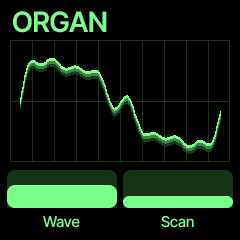
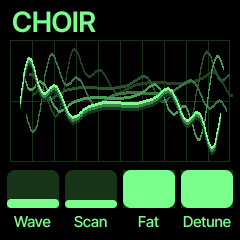
Add FAT and DETUNE unison to the WAVE page
K3 FAT adds 0..4 extra copies of each note, K4 DETUNE spreads them
(P_E4 and P_DETUNE). Copies take free voices from the shared 8-voice
pool, so a full chord at FAT 4 thins out; MONO and LEGATO use the same
count, UNISON still uses all eight. FAT 0 is untouched: every existing
golden and CPU budget is unchanged.

The WAVE picture draws one dimmer, smaller layer per copy, stacked up
and to the right behind the glowing front trace, each shifted in phase
by DETUNE on alternating sides. SPACE WHALE gets FAT 2.

Tests: golden and CPU entries for FAT 4, a voice/detune check, new
emulator references and docs/screens/wave.png.

Prompt: FAT (K3, number of unison copies) and DETUNE (K4) on the WAVE page, visualised as an angled stack of fainter layers that twist with detune (issue #15)

diff --git a/firmware/src/ui.c b/firmware/src/ui.c
@@ -1,6 +1,6 @@
 /* SPDX-License-Identifier: GPL-3.0-only */
 /* The kids' UI: four pages, one function button each (its LED is lit while the page shows):
- *   HOME WAVE (wave, scan) - EDIT FILTER (type, cutoff, reso) - ENV ADSR - FX SPACE (amount, size)
+ *   HOME WAVE (wave, scan, fat, detune) - EDIT FILTER (type, cutoff, reso) - ENV ADSR - FX SPACE (amount, size)
  * K1..K4 turn the bars at the bottom. OCT-/OCT+ shift the keys (both together: back to the middle).
  * An 80s CRT on every page: black, a faint graticule, glowing phosphor lines, one phosphor colour per page. No framebuffer: the screen is drawn in two 240 x 120
  * strips (cv_oy shifts screen coordinates into the strip) and only when something it shows has changed. */
@@ -14,7 +14,8 @@
 
 typedef struct { const char *name; int16_t *v; uint8_t max, step; } kn_t;
 static const struct { uint8_t btn; const char *title; uint16_t bg; kn_t k[4]; } PG[4] = {
-    {B_HOME, 0, RGB(120, 255, 140), {{"Wave", &trk[0].p[P_E0], 7, 1}, {"Scan", &trk[0].p[P_E1], 127, 4}}},
+    {B_HOME, 0, RGB(120, 255, 140), {{"Wave", &trk[0].p[P_E0], 7, 1}, {"Scan", &trk[0].p[P_E1], 127, 4},
+                                          {"Fat", &trk[0].p[P_E4], 4, 1}, {"Detune", &trk[0].p[P_DETUNE], 127, 4}}},
     {B_EDIT, "FILTER", RGB(255, 176, 0), {{0, &trk[0].p[P_FTYPE], 4, 1}, {"Cutoff", &trk[0].p[P_E2], 127, 4},
                                           {"Reso", &trk[0].p[P_E3], 127, 4}}},
     {B_ENV, "ENV", RGB(60, 230, 255), {{"Attack", &trk[0].p[P_ATK], 127, 4}, {"Decay", &trk[0].p[P_DEC], 127, 4},
@@ -52,7 +53,7 @@ static void disc(int32_t cx, int32_t cy, int32_t r, int32_t t, uint16_t c)
 }
 
 /* ------------------------------------------------------- pictures --- */
-static int16_t pt[200][2];                  /* a glowing line's points (WAVE's are filled once for both strips) */
+static int16_t pt[200][2];                  /* a glowing line's points (WAVE's are filled per layer) */
 
 /* a phosphor line through n points: a wide dim halo, a narrower one, then the bright core (pass by pass, so cores stay on top) */
 static void glow_pts(int32_t n, uint16_t c)
@@ -84,8 +85,26 @@ static void graticule(int32_t x, int32_t y, int32_t w, int32_t h, uint16_t c)
         cv_rect(x + i * w / 10, y, 1, h, g);
 }
 
+/* layer c of the FAT stack (0 = front): one step further back = up, right, smaller, phase-shifted by DETUNE (sides alternate) */
+static void wave_layer(int32_t c)
+{
+    int32_t i, amp = 46 * (100 - 6 * c) / 100, sh = (c + 1) / 2 * trk[0].p[P_DETUNE] / 6 * (c & 1 ? 1 : -1);
+    for (i = 0; i < 128; i++) {
+        pt[i][0] = (int16_t)(PX + 10 + i * 200 / 127 + 3 * c);
+        pt[i][1] = (int16_t)(PY + PH / 2 - 5 * c - ((wave_peek(trk[0].p[P_E0] & 7, trk[0].p[P_E1], i * 2 + sh) * amp) >> 15));
+    }
+}
+
 static void pic_wave(void)
 {
+    static const uint8_t M[5] = {100, 62, 46, 34, 26};
+    int32_t c, i;
+    for (c = trk[0].p[P_E4]; c > 0; c--) {      /* back to front, no halo */
+        wave_layer(c);
+        for (i = 0; i < 127; i++)
+            cv_line_t(pt[i][0], pt[i][1], pt[i + 1][0], pt[i + 1][1], ux_mix(0, PG[0].bg, M[c]), 3);
+    }
+    wave_layer(0);
     glow_pts(128, PG[0].bg);
 }
 
@@ -182,10 +201,6 @@ static void ui_draw(void)
     if (ux.mono) {                             /* the GREY palette mixes to grey: these pages are in colour */
         ux.mono = 0;
         ux.gen++;
-    }
-    for (i = 0; !ui_page && i < 128; i++) {   /* the scanned frame, once for both strips */
-        pt[i][0] = (int16_t)(PX + 10 + i * 200 / 127);
-        pt[i][1] = (int16_t)(PY + PH / 2 - ((wave_peek(trk[0].p[P_E0] & 7, trk[0].p[P_E1], i * 2) * 46) >> 15));
     }
     for (y0 = 0; y0 < 240u; y0 += 120u) {
         cv_begin(240, 120, 0);

diff --git a/tests/regress.c b/tests/regress.c
@@ -191,7 +191,8 @@ static void job_mode(const job_t *j)            /* arg: the voice mode, glide on
     track_t *t = &trk[0];
     host_tracks_init();
     host_sound(t, j->pi);
-    t->p[P_VOICE] = j->arg;
+    t->p[P_VOICE] = j->arg & 3u;
+    t->p[P_E4] = j->arg >> 2;                       /* FAT, for the POLY entry */
     t->p[P_GLIDE] = j->arg == V_MONO || j->arg == V_LEGATO ? 30 : 0;
     t->p[P_DETUNE] = 40;
     phrase(t, 60);
@@ -282,7 +283,9 @@ static void job_cpu(const job_t *j)
     host_sound(&trk[0], j->pi);
     trk[0].p[P_VOICE] = V_POLY;
     trk[0].p[P_SUS] = 127;
-    trk[0].p[P_FTYPE] = j->arg;
+    trk[0].p[P_FTYPE] = j->arg & 7u;
+    trk[0].p[P_E4] = j->arg >> 3;                   /* FAT */
+    trk[0].p[P_DETUNE] = 60;
     for (i = 0; i < j->cpu_notes; i++)
         trk_note_on(&trk[0], NOTES[i], 100);
     for (k = 0; k < nb / 2u + nb; k++) {
@@ -612,6 +615,36 @@ static int chk_reverb(char *msg, uint32_t n)
     return early > LIM_TAIL && R.tail_peak <= LIM_TAIL && !R.over;
 }
 
+static uint32_t mode_release_gates(void);
+/* FAT n: n extra copies per note, spread by DETUNE (none at DETUNE 0); FAT 0 is one voice */
+static int chk_fat(char *msg, uint32_t n)
+{
+    track_t *t = &trk[0];
+    uint32_t f, bad = 0, i, spread;
+    for (f = 0; f <= 4u; f++) {
+        for (spread = 0; spread < 2u; spread++) {
+            int32_t lo = 0, hi = 0;
+            host_tracks_init();
+            t->p[P_E4] = (int16_t)f;
+            t->p[P_DETUNE] = spread ? 60 : 0;
+            trk_note_on(t, 60, 100);
+            bad += voices_busy() != 1u + f;
+            for (i = 0; i < NVOICE; i++)
+                if (t->v[i].active) {
+                    lo = t->v[i].fine < lo ? t->v[i].fine : lo;
+                    hi = t->v[i].fine > hi ? t->v[i].fine : hi;
+                }
+            bad += (f > 1u && spread) != (lo < 0 && hi > 0);   /* copies on both sides of the lead, only with DETUNE */
+            bad += !spread && (lo || hi);
+            trk_note_off(t, 60);
+            bad += mode_release_gates() != 0;
+            run_to(fpos + 2u * FS);                   /* let the tails die: the next case counts from 0 */
+        }
+    }
+    snprintf(msg, n, "FAT 0..4: 1 + FAT voices per note, spread both ways by DETUNE, all released (%u wrong)", bad);
+    return !bad;
+}
+
 /* every factory preset loads, plays (not silent) and renders differently from all the others */
 static int chk_presets(char *msg, uint32_t n)
 {
@@ -921,6 +954,7 @@ int main(int argc, char **argv)
             j->pi = REV_S[i];
             j->arg = (uint8_t)k0;
         }
+    add(J_MODE, "mode/ROBOT_LEAD/FAT4")->arg = 4u << 2;      /* POLY, FAT 4 */
     add(J_KEYS, "keys/octave");
     add(J_MIDI, "midi/notes_bend_sustain");
     g1 = nj;
@@ -940,6 +974,7 @@ int main(int argc, char **argv)
     add(J_CHECK, "filter: every TYPE stable at max RES")->check = chk_filters;
     add(J_CHECK, "filter: drawn curve = real response")->check = chk_curves;
     add(J_CHECK, "reverb: the tail decays")->check = chk_reverb;
+    add(J_CHECK, "wave: FAT copies and DETUNE")->check = chk_fat;
     add(J_CHECK, "presets: load, sound, all different")->check = chk_presets;
     run_jobs(J, nj, jobs_at_once);
 
@@ -959,6 +994,12 @@ int main(int argc, char **argv)
         snprintf(name, sizeof name, "cpu/filter/%s", FN[i]);
         j = add(J_CPU, name);
         j->arg = (uint8_t)i;
+        j->cpu_notes = 8;
+        j->own = 1;
+    }
+    {
+        job_t *j = add(J_CPU, "cpu/fat4");              /* FAT 4 fills the same 8-voice pool: no dearer than 8 notes */
+        j->arg = 4u << 3;
         j->cpu_notes = 8;
         j->own = 1;
     }

diff --git a/firmware/src/voice.c b/firmware/src/voice.c
@@ -21,6 +21,14 @@ static uint32_t trk_nvoice(const track_t *t)
 
 static uint32_t trk_vmode(const track_t *t) { return (uint32_t)t->p[P_VOICE]; }
 
+/* voices per note: UNISON uses all, else 1 + FAT (P_E4, 0..4). shortcut: the copies come out of the shared
+ * 8-voice budget (only when there is room, else the oldest released voices go), so a full chord on FAT 4 thins out */
+static uint32_t trk_copies(const track_t *t)
+{
+    uint32_t f = (uint32_t)t->p[P_E4];
+    return trk_vmode(t) == V_UNISON ? trk_nvoice(t) : 1u + (f > 4u ? 4u : f);
+}
+
 /* ------------------------------------------------- the shared voice budget --- */
 static uint32_t voices_busy(void)                       /* sounding voices of all parts (not the fading ones) */
 {
@@ -226,7 +234,7 @@ static void voice_start(track_t *t, voice_t *v, uint32_t note, uint32_t vel, int
  * engine's voice cap, spread by DETUNE over the same width) */
 static void mono_play(track_t *t, uint32_t note, uint32_t vel, int retrig, int glide)
 {
-    uint32_t mode = (uint32_t)t->p[P_VOICE], nv = mode == V_UNISON ? trk_nvoice(t) : 1u, i;
+    uint32_t nv = trk_copies(t), i;
     for (i = 0; i < nv; i++) {
         voice_t *v = &t->v[i];
         int32_t k = 2 * (int32_t)i - (int32_t)(nv - 1u);   /* -7 .. 7 */
@@ -288,8 +296,21 @@ static void trk_note_on(track_t *t, uint32_t note, uint32_t vel)
         voice_t *v = voice_alloc(t, note);
         t->nmono = 0;                                   /* no stale mono stack after a mode change */
         t->mono_note = 0;
+        uint32_t nv = trk_copies(t), c, j;
         v->fine = 0;
-        voice_start(t, v, note, vel, t->p[P_GLIDE] != 0);
+        voice_start(t, v, note, nv == 1u ? vel : vel * 2u / (nv + 1u), t->p[P_GLIDE] != 0);
+        for (c = 1; c < nv; c++) {                      /* FAT: copies in free voices, alternating sides of the lead */
+            static uint32_t seed = 0x2345679u;
+            voice_t *x = 0;
+            for (j = 0; j < NVOICE && !x; j++)
+                x = !t->v[j].active ? &t->v[j] : 0;
+            if (!x || !voice_room(t, 1))
+                break;
+            x->fine = (int32_t)((c + 1u) / 2u) * 3 * (c & 1u ? 1 : -1) * t->p[P_DETUNE] * 56 / 889;
+            voice_start(t, x, note, vel * 2u / (nv + 1u), 0);
+            seed = seed * 1664525u + 1013904223u;
+            x->ph[0] += seed;                           /* random phases: in phase they only get louder */
+        }
         return;
     }
     {
@@ -313,7 +334,7 @@ static void trk_note_off(track_t *t, uint32_t note)
     uint32_t i, mode = trk_vmode(t);
     mono_remove(t, note);                              /* a mode change must not retain a released key */
     if (mode != V_POLY) {
-        uint32_t nv = mode == V_UNISON ? trk_nvoice(t) : 1u;
+        uint32_t nv = trk_copies(t);
         if (t->mono_note == note) {
             uint32_t next = mono_pick(t);
             if (next) {                                 /* fall back to a held note, legato */

diff --git a/firmware/src/presets.c b/firmware/src/presets.c
@@ -8,10 +8,11 @@ typedef struct {
     uint8_t env[4];              /* ATK DEC SUS REL */
     uint8_t rev, rsize, voice;
     int8_t fenv;
+    uint8_t fat, detune;         /* FAT copies, DETUNE */
 } preset_t;
 
 static const preset_t PRESETS[] = {
-    {"SPACE WHALE", {1, 30, 60, 40}, 0, {90, 90, 110, 100}, 110, 127, V_POLY, 10},
+    {"SPACE WHALE", {1, 30, 60, 40}, 0, {90, 90, 110, 100}, 110, 127, V_POLY, 10, 2, 60},
     {"LASER CAT", {7, 127, 100, 90}, 1, {0, 50, 20, 30}, 20, 40, V_LEGATO, 48},
     {"ROBOT DOG", {0, 40, 90, 30}, 0, {4, 70, 100, 50}, 20, 30, V_LEGATO, 20},
     {"MAGIC BELLS", {2, 90, 70, 20}, 2, {0, 88, 0, 60}, 90, 100, V_POLY, 30},
@@ -30,6 +31,8 @@ static void preset_load(uint32_t i)
         trk[0].p[P_E0 + k] = s->e[k];
         trk[0].p[P_ATK + k] = s->env[k];
     }
+    trk[0].p[P_E4] = s->fat;
+    trk[0].p[P_DETUNE] = s->detune;
     trk[0].p[P_FTYPE] = s->ftype;
     trk[0].p[P_REV] = s->rev;
     trk[0].p[P_VOICE] = s->voice;

diff --git a/firmware/src/params.c b/firmware/src/params.c
@@ -21,6 +21,7 @@ static const param_desc_t TP[P_COUNT] = {
     [P_DETUNE] = PD("DTUNE", F_INT, 0, 127, 40),
     [P_PAN] = PD("PAN", F_BIPCT, -64, 63, 0),
     [P_MUTE] = PD("MUTE", F_ENUM, 0, 1, 0),
+    [P_E4] = PD("FAT", F_INT, 0, 4, 0),          /* WAVE: extra unison copies per note */
     [P_FTYPE] = PD("TYPE", F_ENUM, 0, 4, 0),       /* LP BP HP NOTCH COMB */
 };
 

diff --git a/tools/emu_check.py b/tools/emu_check.py
@@ -21,7 +21,7 @@ PAGE = {"HOME": "h", "EDIT": "f5", "ENV": "p", "FX": "f1"}
 KNOB = [("f17", "f18"), ("d", "f"), ("f19", "f20"), ("f21", "f22")]
 PRESETS, NOTE = ("f13", "f14"), "z"
 # page -> how many knobs it uses (ui.c PG[])
-USES = {"HOME": 2, "EDIT": 3, "ENV": 4, "FX": 2}
+USES = {"HOME": 4, "EDIT": 3, "ENV": 4, "FX": 2}
 
 
 def script():
